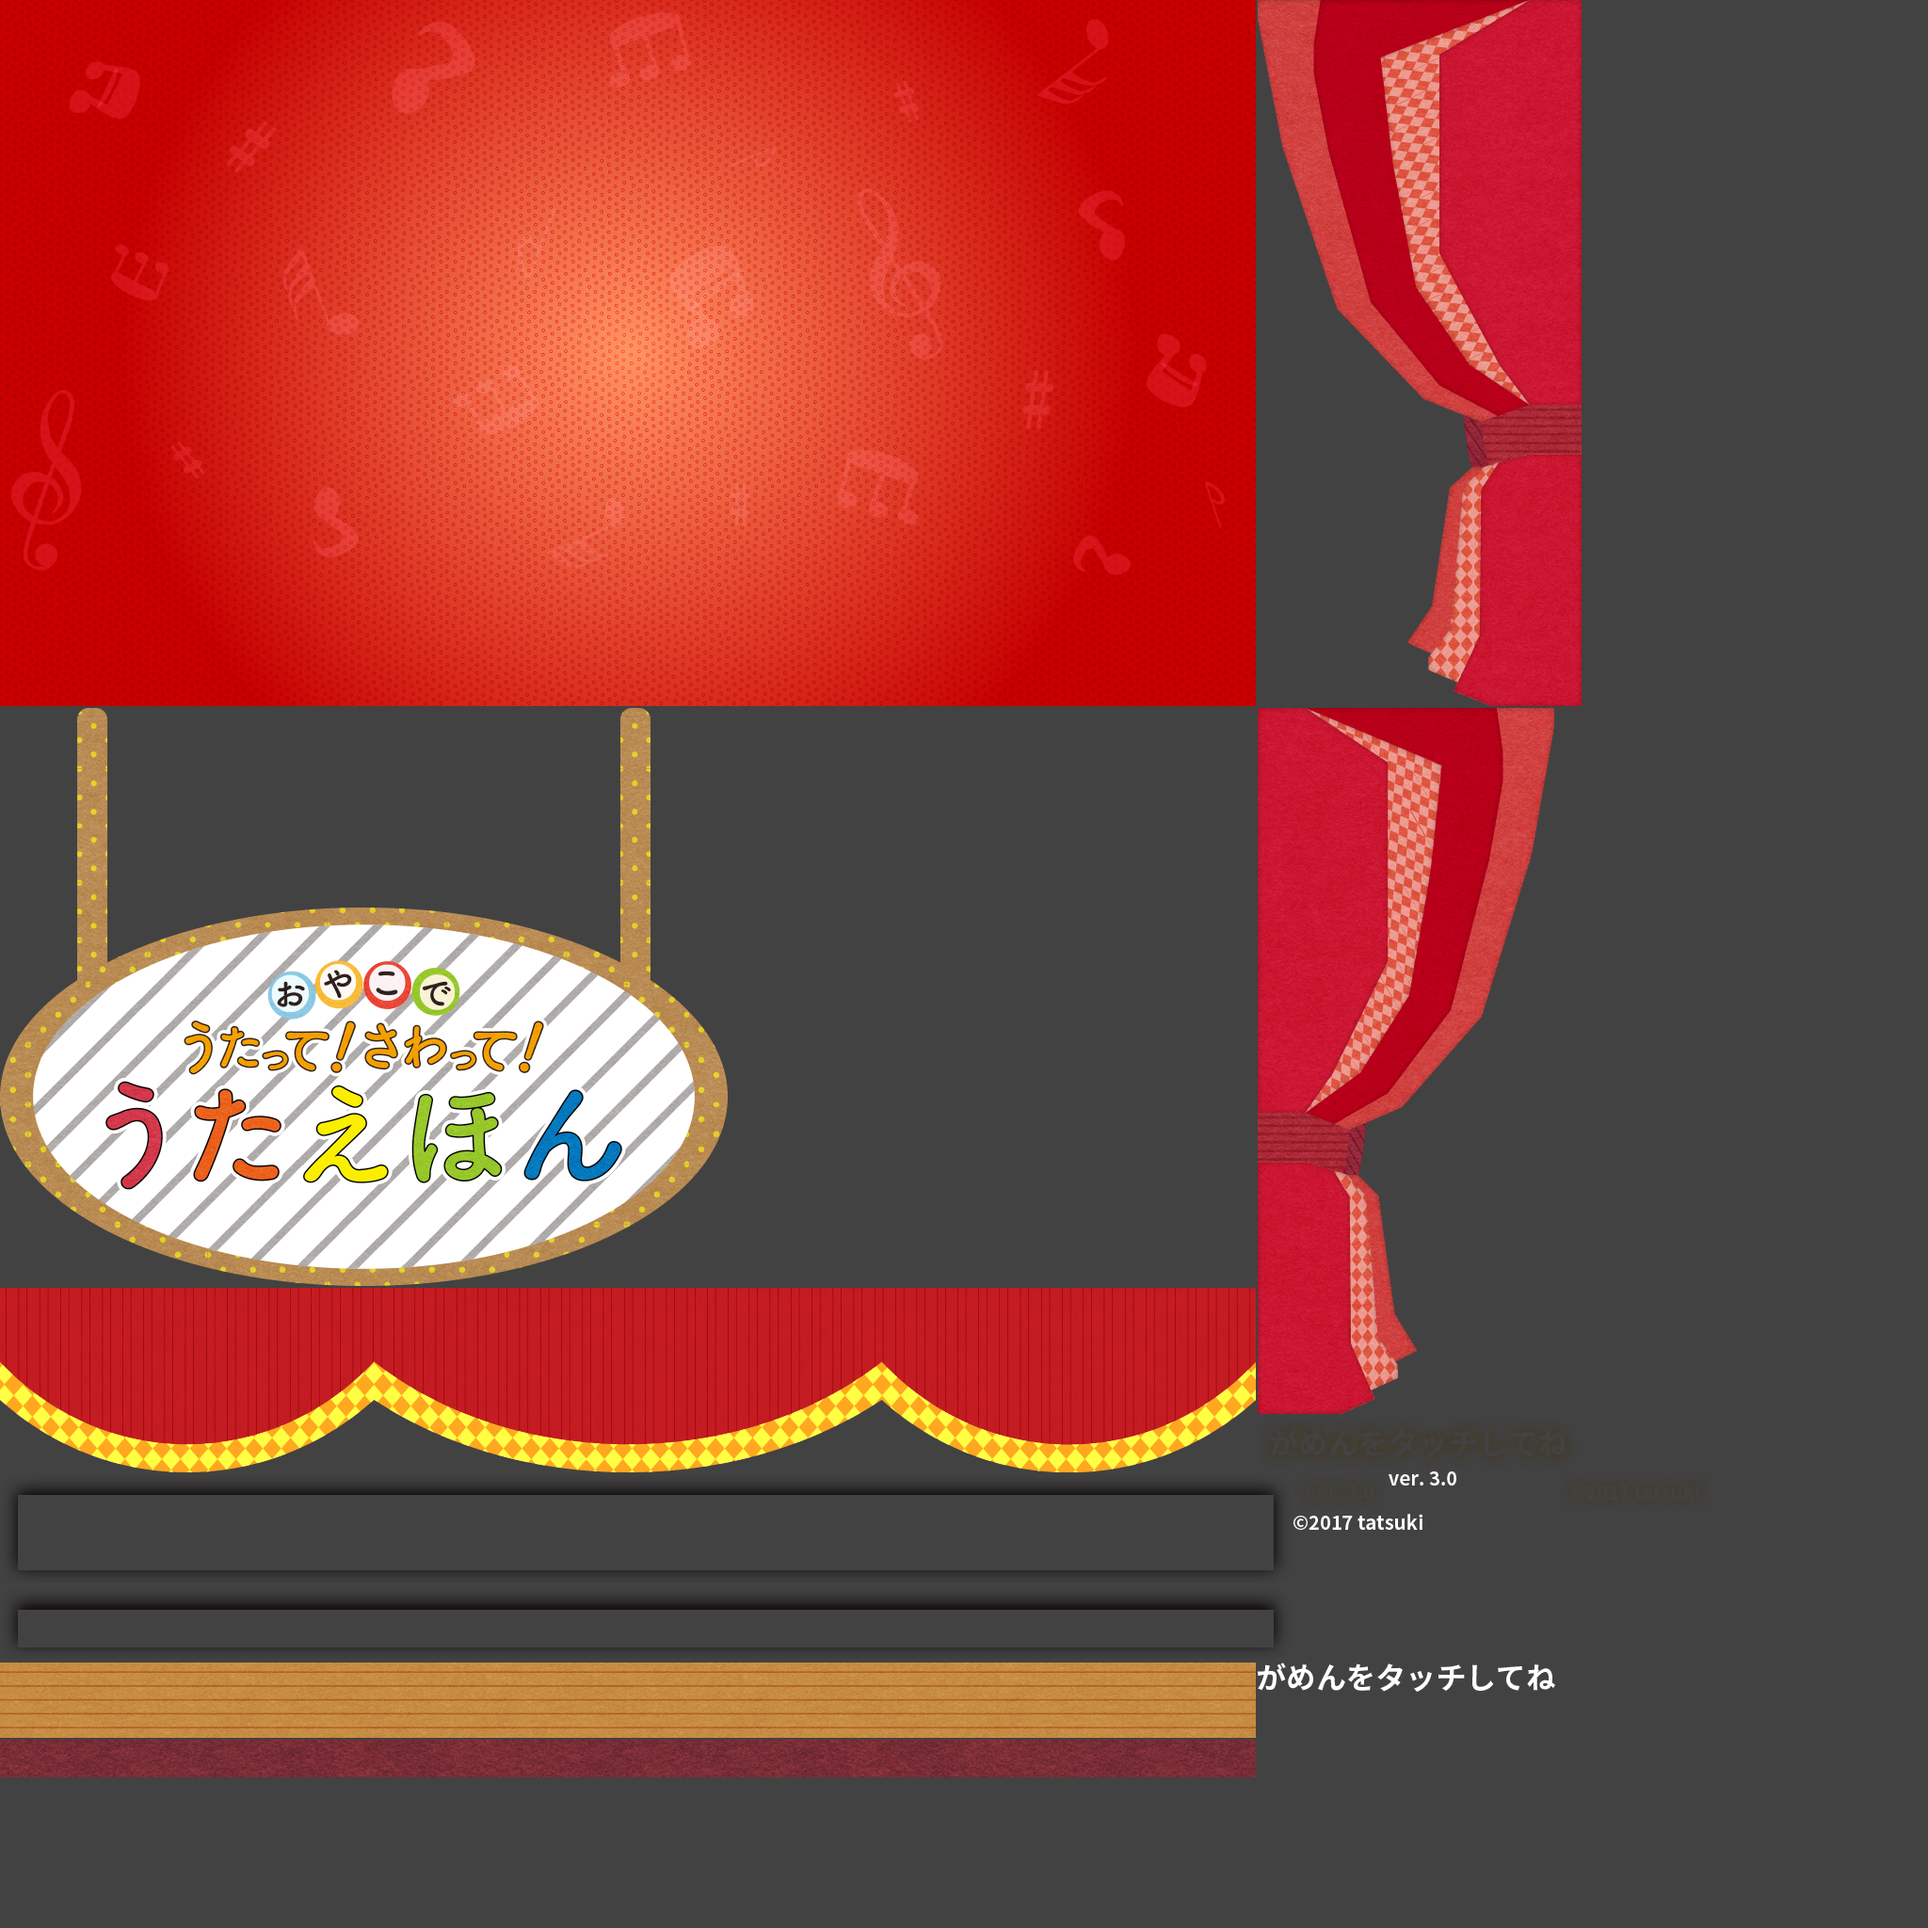
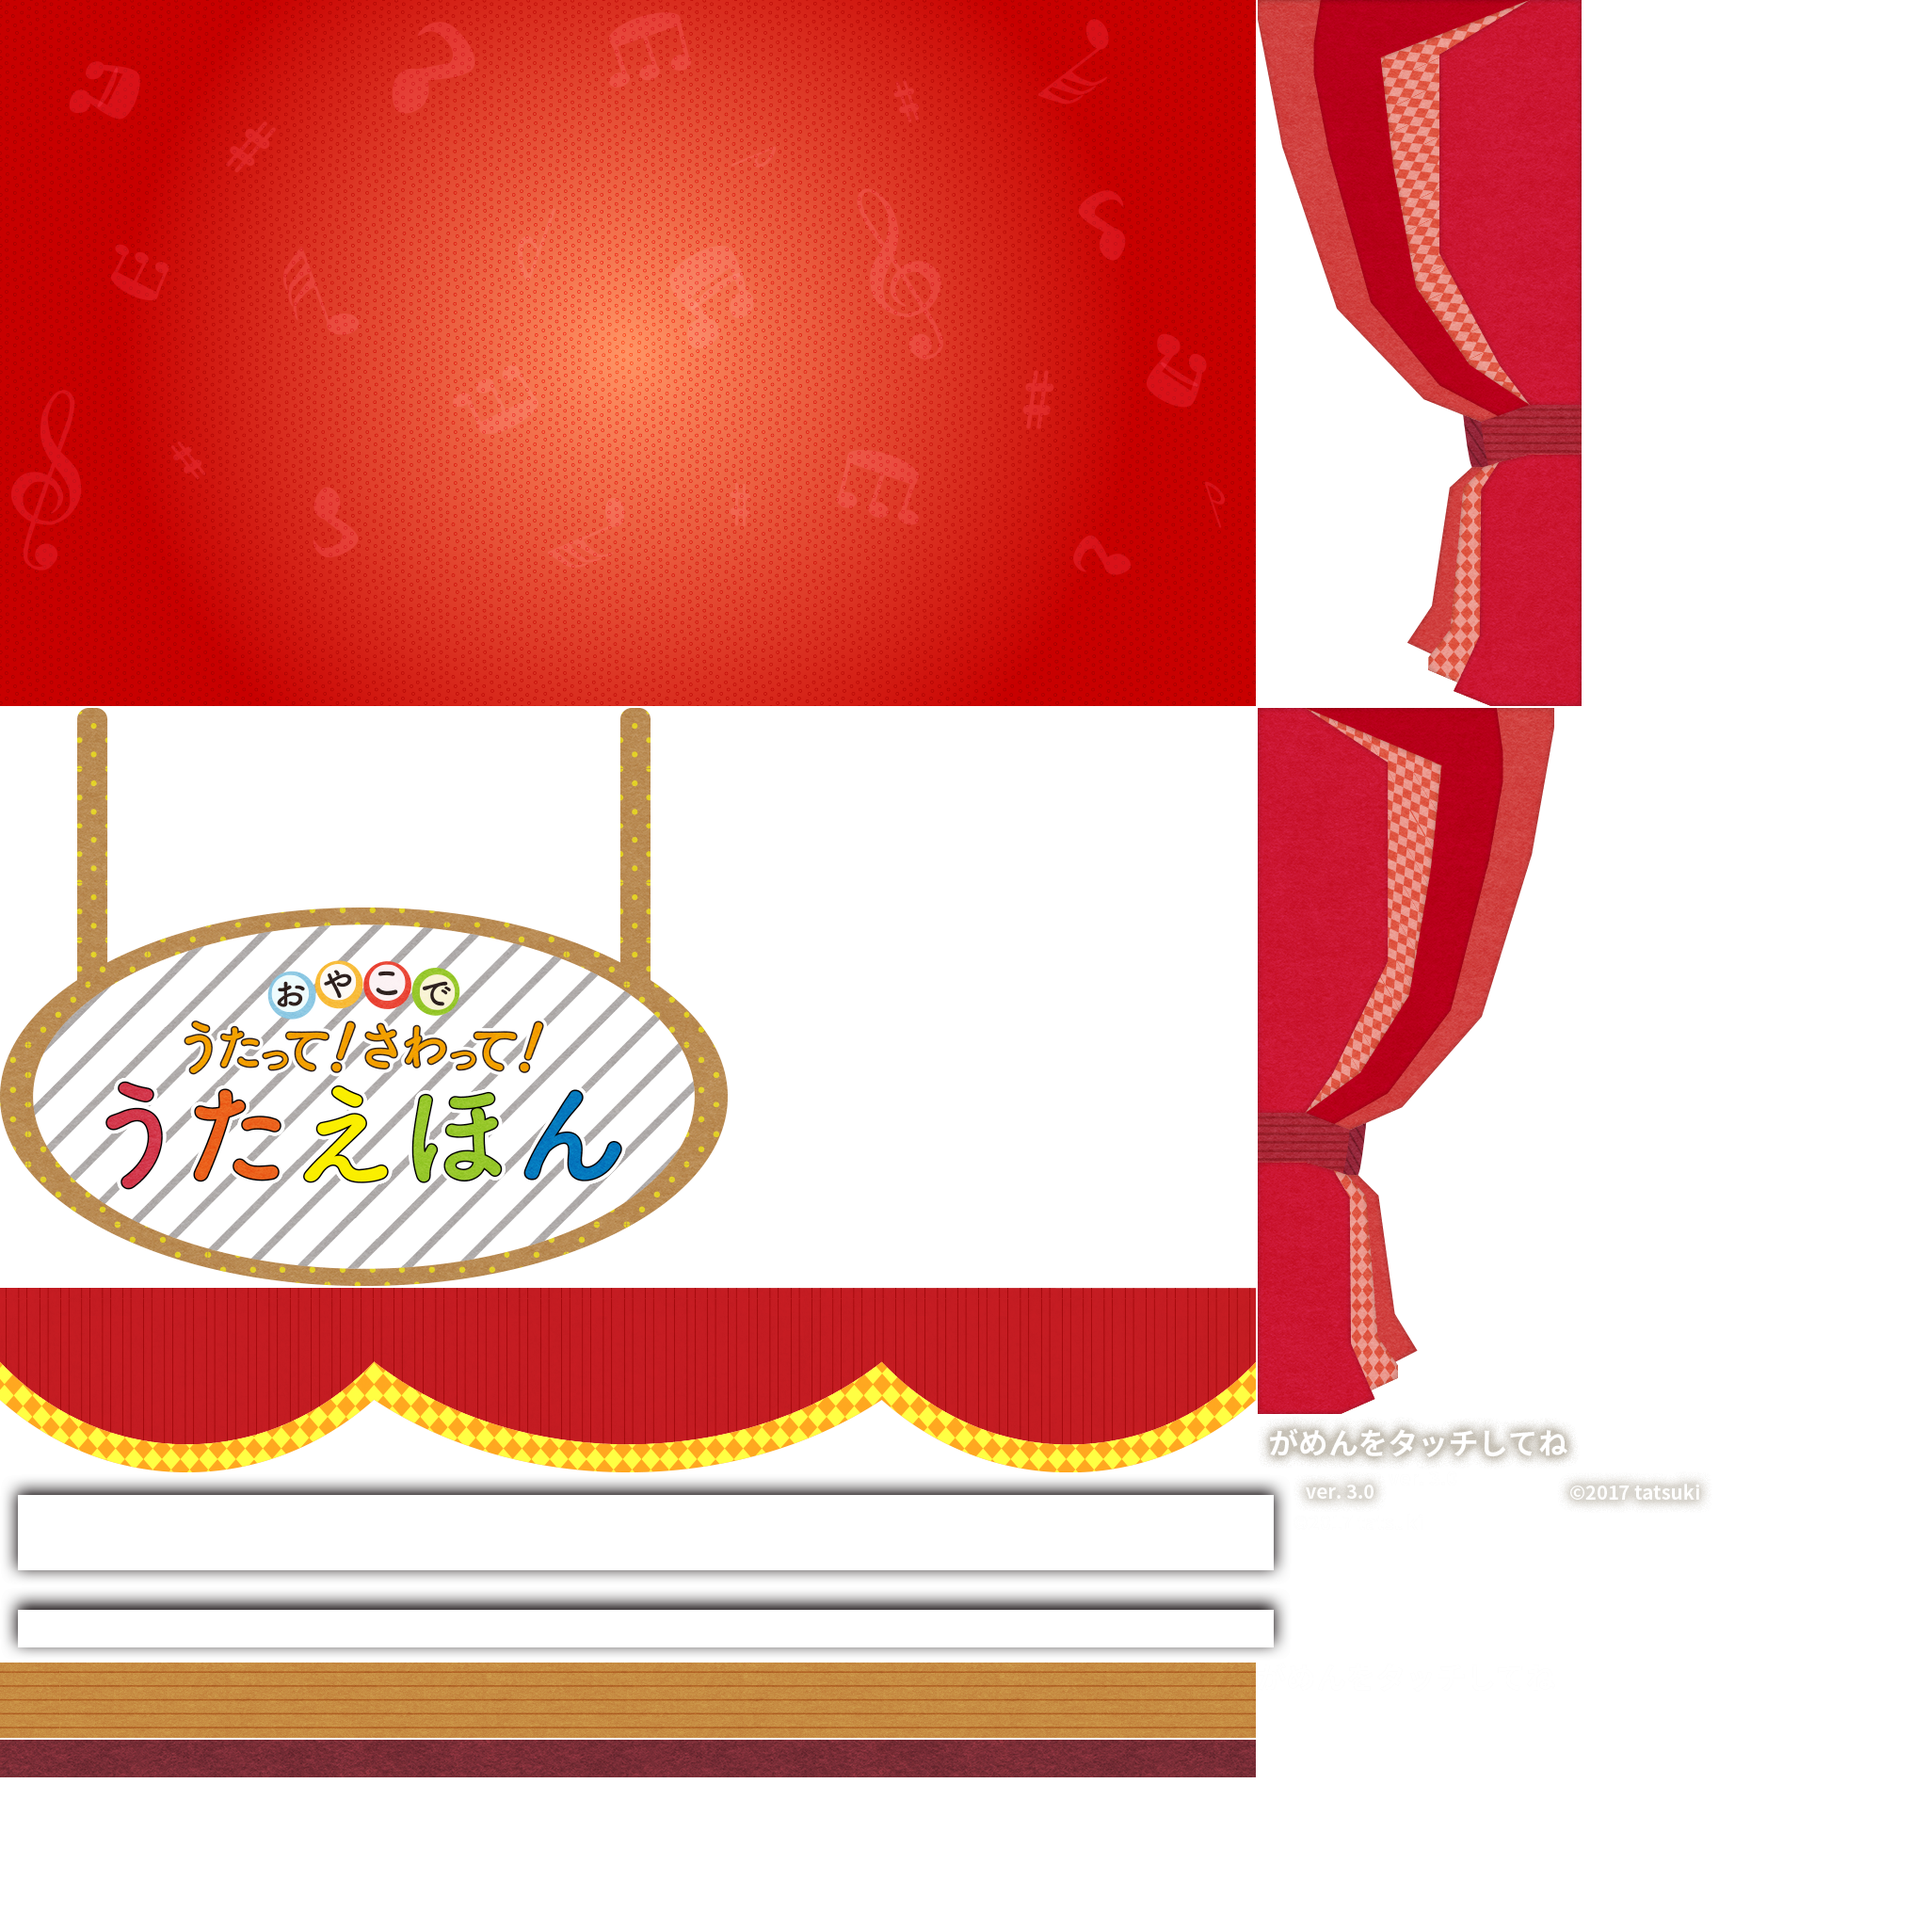
animation

diff --git a/utaehon/index.js b/utaehon/index.js
@@ -560,14 +560,14 @@ p.nominalBounds = new cjs.Rectangle(0,0,342,57);
 	// version.png
 	this.instance = new lib.version_3();
 	this.instance.parent = this;
-	this.instance.setTransform(222.5,687.5,1,1,0,0,0,49.5,21.5);
+	this.instance.setTransform(222.5,729.1,1,1,0,0,0,49.5,21.5);
 
 	this.timeline.addTween(cjs.Tween.get(this.instance).wait(48));
 
 	// year.png
 	this.instance_1 = new lib.year_3();
 	this.instance_1.parent = this;
-	this.instance_1.setTransform(1140.5,686,1,1,0,0,0,82.5,22);
+	this.instance_1.setTransform(1134,727.6,1,1,0,0,0,82.5,22);
 
 	this.timeline.addTween(cjs.Tween.get(this.instance_1).wait(48));
 
